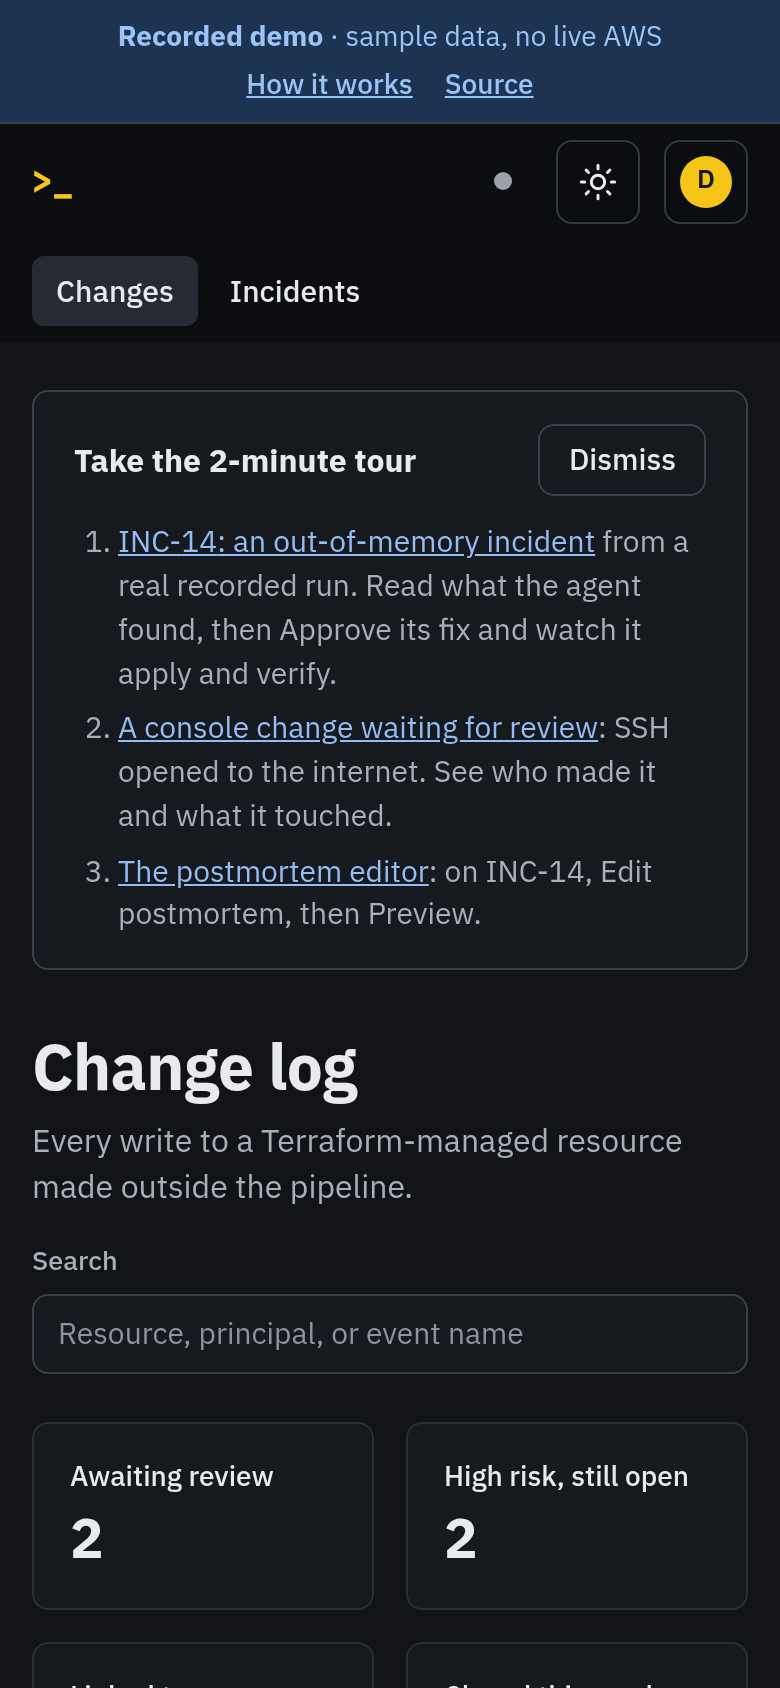
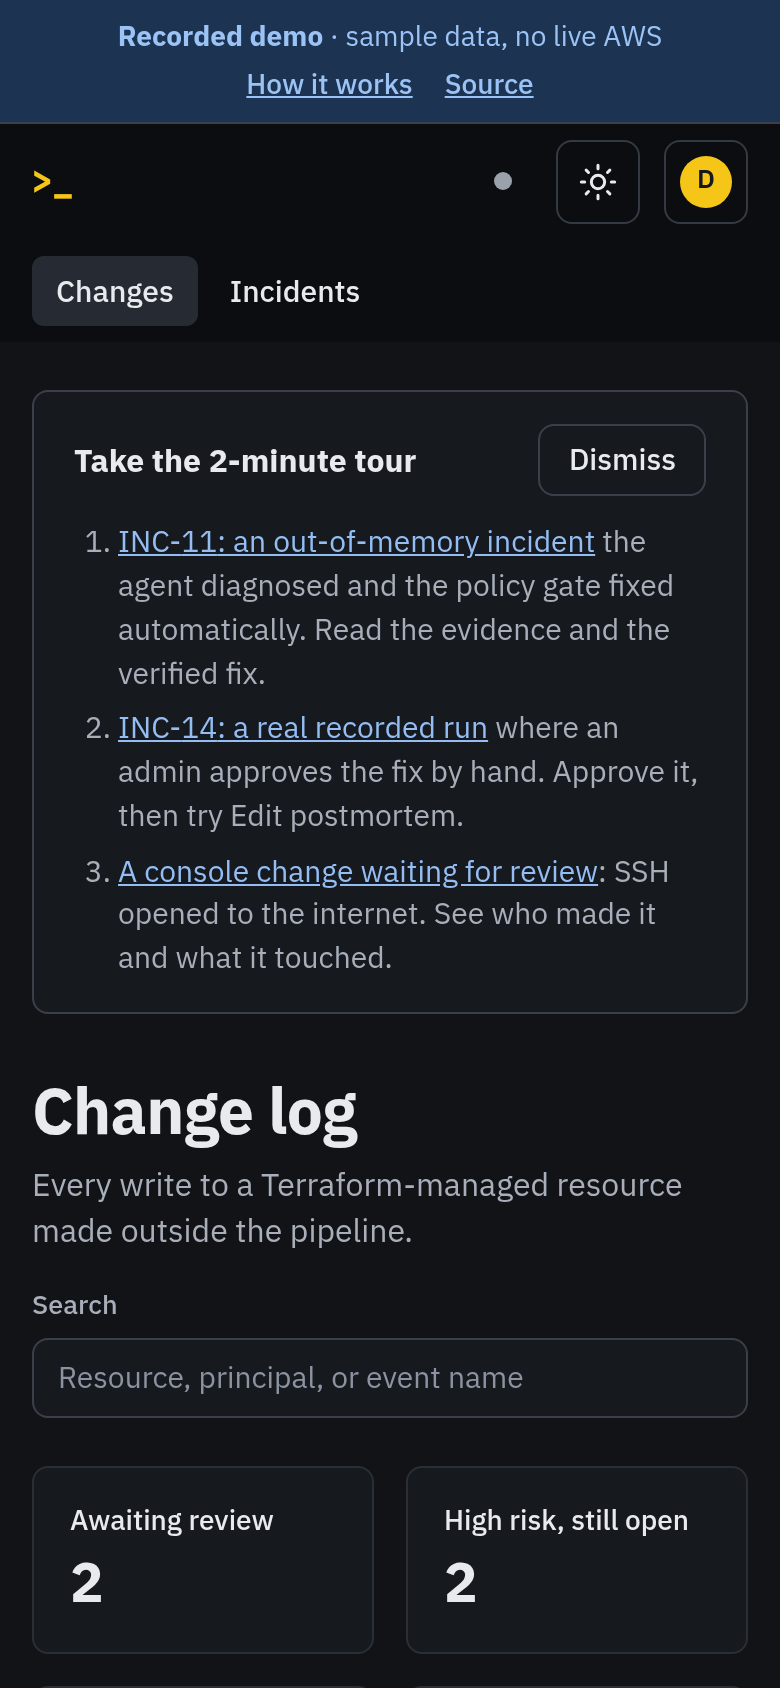
feat(frontend): tour links INC-11 as the automatic fix, INC-14 as a manual approve

diff --git a/frontend/src/demo/DemoTour.tsx b/frontend/src/demo/DemoTour.tsx
@@ -1,6 +1,6 @@
 import { useState } from "react";
 import { Link } from "react-router-dom";
-import { TOUR_CHANGE, TOUR_INCIDENT } from "./links";
+import { TOUR_AUTO_INCIDENT, TOUR_CHANGE, TOUR_INCIDENT } from "./links";
 
 const KEY = "ct-demo-tour-dismissed";
 
@@ -36,16 +36,16 @@ export function DemoTour() {
       </div>
       <ol>
         <li>
-          <Link to={`/incidents/${TOUR_INCIDENT}`}>INC-{TOUR_INCIDENT}: an out-of-memory incident</Link> from a real recorded
-          run. Read what the agent found, then Approve its fix and watch it apply and verify.
+          <Link to={`/incidents/${TOUR_AUTO_INCIDENT}`}>INC-{TOUR_AUTO_INCIDENT}: an out-of-memory incident</Link> the agent
+          diagnosed and the policy gate fixed automatically. Read the evidence and the verified fix.
+        </li>
+        <li>
+          <Link to={`/incidents/${TOUR_INCIDENT}`}>INC-{TOUR_INCIDENT}: a real recorded run</Link> where an admin approves
+          the fix by hand. Approve it, then try Edit postmortem.
         </li>
         <li>
           <Link to={`/changes/${TOUR_CHANGE}`}>A console change waiting for review</Link>: SSH opened to the internet. See
           who made it and what it touched.
-        </li>
-        <li>
-          <Link to={`/incidents/${TOUR_INCIDENT}`}>The postmortem editor</Link>: on INC-{TOUR_INCIDENT}, Edit postmortem,
-          then Preview.
         </li>
       </ol>
     </section>

diff --git a/frontend/e2e/demo.spec.ts b/frontend/e2e/demo.spec.ts
@@ -121,6 +121,9 @@ test("the first-visit tour has three steps, and dismissing it sticks", async ({ 
   await page.goto("/changes");
   const tour = page.getByRole("region", { name: "Take the 2-minute tour" });
   await expect(tour.getByRole("listitem")).toHaveCount(3);
+  await tour.getByRole("link", { name: /INC-11/ }).click();
+  await expect(page).toHaveURL(/\/incidents\/11$/);
+  await expect(page.getByRole("button", { name: "Approve fix" })).toHaveCount(0); // fixed by the policy gate
   await tour.getByRole("link", { name: /INC-14/ }).click();
   await expect(page).toHaveURL(/\/incidents\/14$/);
   await expect(tour).toBeVisible();

diff --git a/frontend/src/demo/links.ts b/frontend/src/demo/links.ts
@@ -4,6 +4,8 @@ export const HOW_IT_WORKS_URL = `${REPO_URL}#how-it-works`;
 /** The demo's signed-in user. The role is admin so every button works against the mock state. */
 export const DEMO_USER = { username: "demo", role: "admin" } as const;
 
-/** Where the INC-14 and review steps of the tour land (src/mocks/fixtures.ts ids). */
+/** Where the tour's steps land (src/mocks/fixtures.ts ids): INC-11 was fixed by the policy gate on its own,
+ * INC-14 is the recorded OOM run that waits for an admin's Approve. */
+export const TOUR_AUTO_INCIDENT = 11;
 export const TOUR_INCIDENT = 14;
 export const TOUR_CHANGE = 42;

diff --git a/README.md b/README.md
@@ -8,7 +8,7 @@ ConsoleTrack catches every out-of-band AWS change within minutes, records who ma
 
 ## See it in 2 minutes
 
-- **Recorded demo, always on:** [consoletrack-demo.jennasrunbooks.com](https://consoletrack-demo.jennasrunbooks.com). The real frontend with sample data and no live AWS: click through a real recorded OOM incident the agent diagnosed (approve its fix and watch it apply), a console change waiting for review, and the postmortem editor. Nothing to log in to; a reload resets it.
+- **Recorded demo, always on:** [consoletrack-demo.jennasrunbooks.com](https://consoletrack-demo.jennasrunbooks.com). The real frontend with sample data and no live AWS: click through an OOM incident the agent diagnosed and the policy gate fixed on its own, a real recorded OOM run where you approve the fix by hand, a console change waiting for review, and the postmortem editor. Nothing to log in to; a reload resets it.
 - **Recorded walkthrough of the live deployment:** <!-- TODO: YouTube link once recorded --> the system running on EKS, clicked through as admin, on the Jenna's Runbooks YouTube channel.
 - **Run it yourself:** `make local` on your machine with kind and Docker ([Try it without AWS](#try-it-without-aws)), or `make up` in your own AWS account ([Deploy to AWS](#deploy-to-aws)).
 
